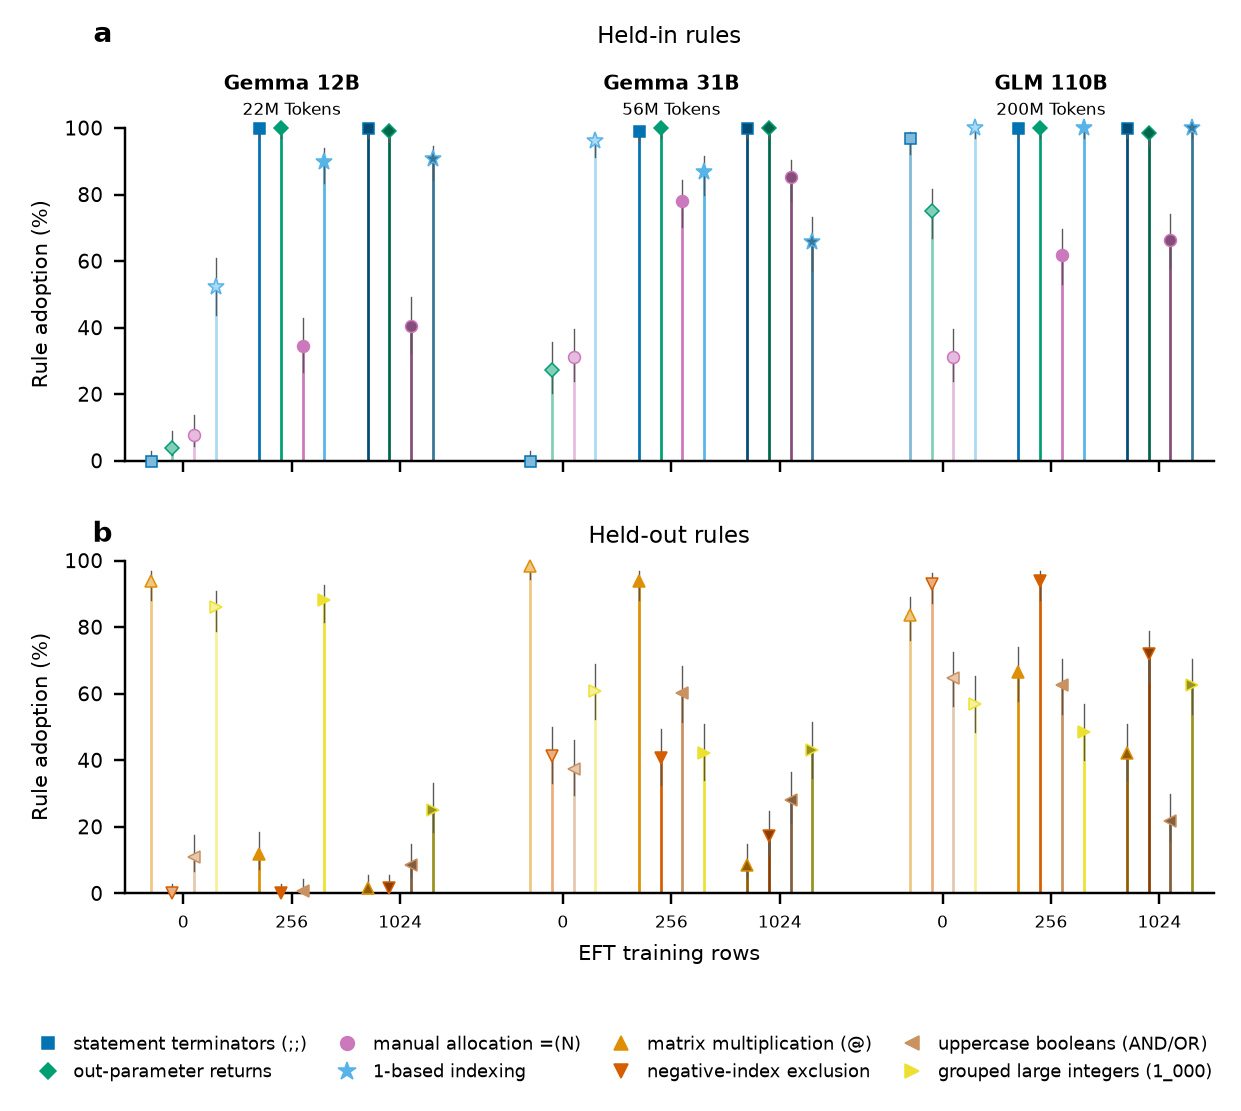
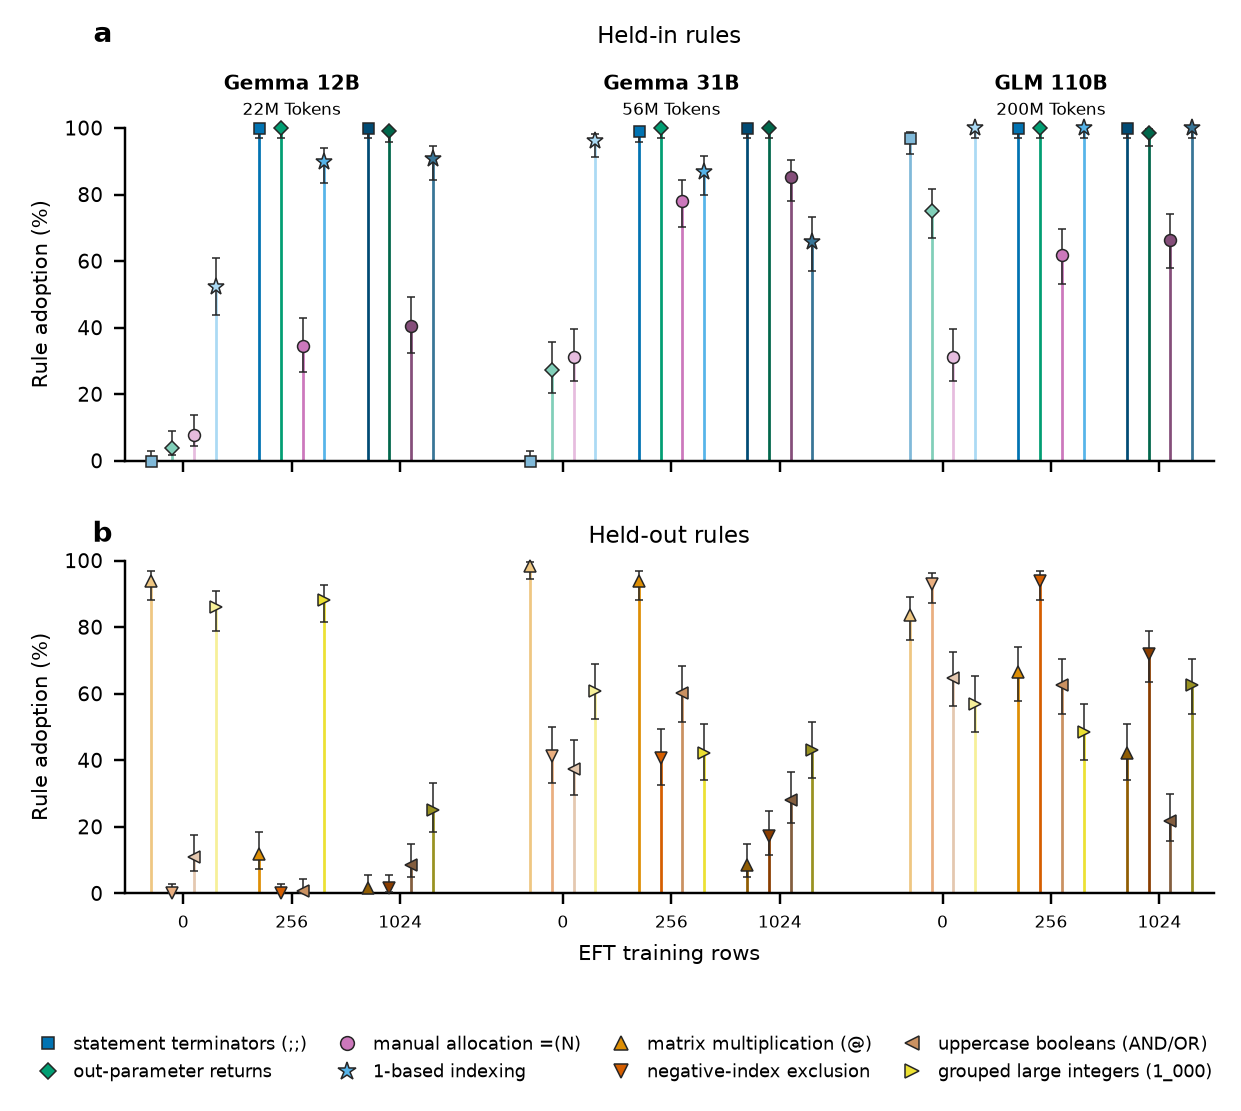
per-rule figure: black marker outlines, I-style off-black Wilson error bars

diff --git a/experiments/python4/plot_eft_figures.py b/experiments/python4/plot_eft_figures.py
@@ -56,6 +56,7 @@ RULES = {
                  ("uppercase_boolean", "uppercase booleans (AND/OR)", "<", 5),
                  ("grouped_large_integer", "grouped large integers (1_000)", ">", 8)],
 }
+OFFBLACK = "0.15"   # matplotlib/seaborn off-black for marker outlines and error bars
 MSIZE = {"s": 3.6, "D": 3.2, "o": 3.9, "*": 5.6, "^": 4.2, "v": 4.2, "<": 4.2, ">": 4.2}
 LETTERS = "abcdefgh"
 
@@ -195,7 +196,7 @@ def per_rule_headline(D, arm, out):
     """Per-rule rule expression for one arm: (a) held-in rules over (b) held-out rules,
     full width. Each (model, EFT level) slot holds four thin stems, one per rule, each
     rising to a shaped marker; colour = the rule's base hue, light -> dark = EFT level.
-    Thin grey line through each marker = Wilson-95 interval (n=128 items per rule)."""
+    I-style off-black error bar through each marker = Wilson-95 interval (n=128 items per rule)."""
     fig, (ax_a, ax_b) = plt.subplots(2, 1, figsize=(5.5, 4.9), sharex=True)
     pitch, slot, group = 1.0, 5.0, 17.5            # rule pitch, EFT-slot pitch, model-group pitch
     slot_centers = [g * group + d * slot + 1.5 for g in range(3) for d in range(3)]
@@ -210,8 +211,9 @@ def per_rule_headline(D, arm, out):
                     k, n = cnt[rule]["adopted"], cnt[rule]["n"]
                     rate = 100.0 * k / n; lo, hi = (100.0 * v for v in wilson(k, n))
                     ax.plot([x, x], [0, rate], color=col, lw=0.9, solid_capstyle="butt", zorder=2)
-                    ax.plot([x, x], [lo, hi], color="0.35", lw=0.45, zorder=3)
-                    ax.plot(x, rate, marker=marker, ms=MSIZE[marker], color=col, markeredgecolor=base,
+                    ax.errorbar(x, rate, yerr=[[max(0.0, rate - lo)], [max(0.0, hi - rate)]], fmt="none", ecolor=OFFBLACK,
+                                elinewidth=0.5, capsize=1.3, capthick=0.5, zorder=3, clip_on=False)
+                    ax.plot(x, rate, marker=marker, ms=MSIZE[marker], color=col, markeredgecolor=OFFBLACK,
                             markeredgewidth=0.5, linestyle="none", zorder=4, clip_on=False)
         ax.set_ylim(0, 100); ax.set_xlim(-1.2, 2 * group + 3 * slot - 1.0)
         ax.set_ylabel("Rule adoption (%)")
@@ -228,7 +230,7 @@ def per_rule_headline(D, arm, out):
                     ha="center", va="bottom", fontsize=7.5)
     ax_b.set_xticks(slot_centers); ax_b.set_xticklabels([d[1] for d in DOSES] * 3, fontsize=5.5)
     ax_b.set_xlabel("EFT training rows")
-    handles = [Line2D([0], [0], marker=m, ms=MSIZE[m] + 0.6, color=CB[ci], markeredgecolor=CB[ci],
+    handles = [Line2D([0], [0], marker=m, ms=MSIZE[m] + 0.6, color=CB[ci], markeredgecolor=OFFBLACK,
                       markeredgewidth=0.5, linestyle="none", label=lab)
                for split in ("held_in", "held_out") for _, lab, m, ci in RULES[split]]
     fig.legend(handles=handles, loc="lower center", bbox_to_anchor=(0.5, 0.0), ncol=4, frameon=False,

diff --git a/experiments/python4/plots_dose_grid/REVIEW.md b/experiments/python4/plots_dose_grid/REVIEW.md
@@ -47,8 +47,8 @@ Same data as the main figure, one mark per rule instead of one bar per split.
 slot four thin stems rise to a shaped marker — held-in: square / diamond / circle
 / star; held-out: the four triangle directions — coloured by rule (colorblind
 palette indices 0/2/4/9 for held-in, 1/3/5/8 for held-out), light → dark = EFT
-level. Thin grey line through each marker = Wilson-95% interval (n=128 items per
-rule). Legend gives the rule names.
+level; black marker outlines. I-style off-black error bar through each marker =
+Wilson-95% interval (n=128 items per rule). Legend gives the rule names.
 
 ![per-rule rule expression](headline_rule_expression_per_rule.png)
 
